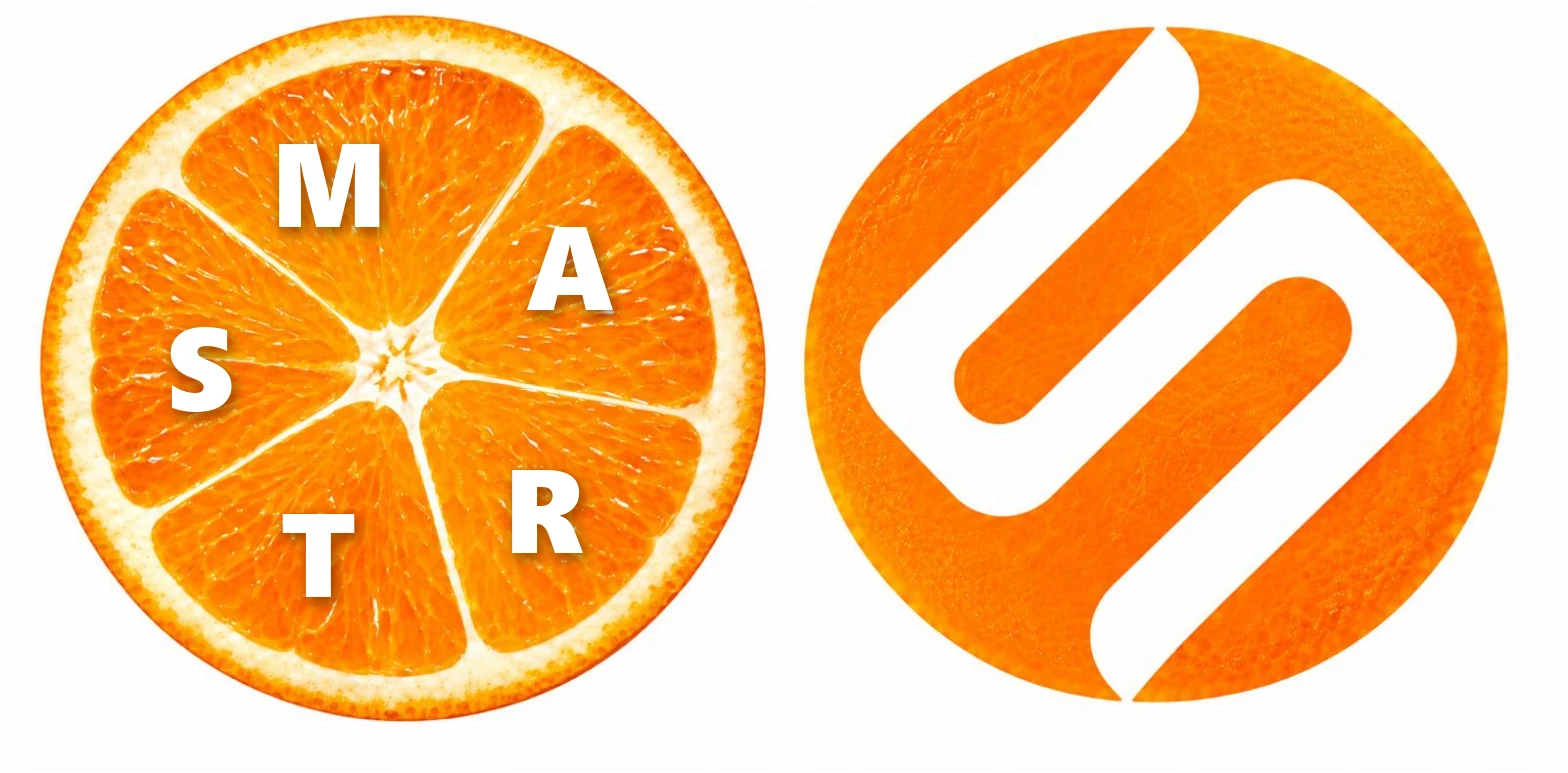
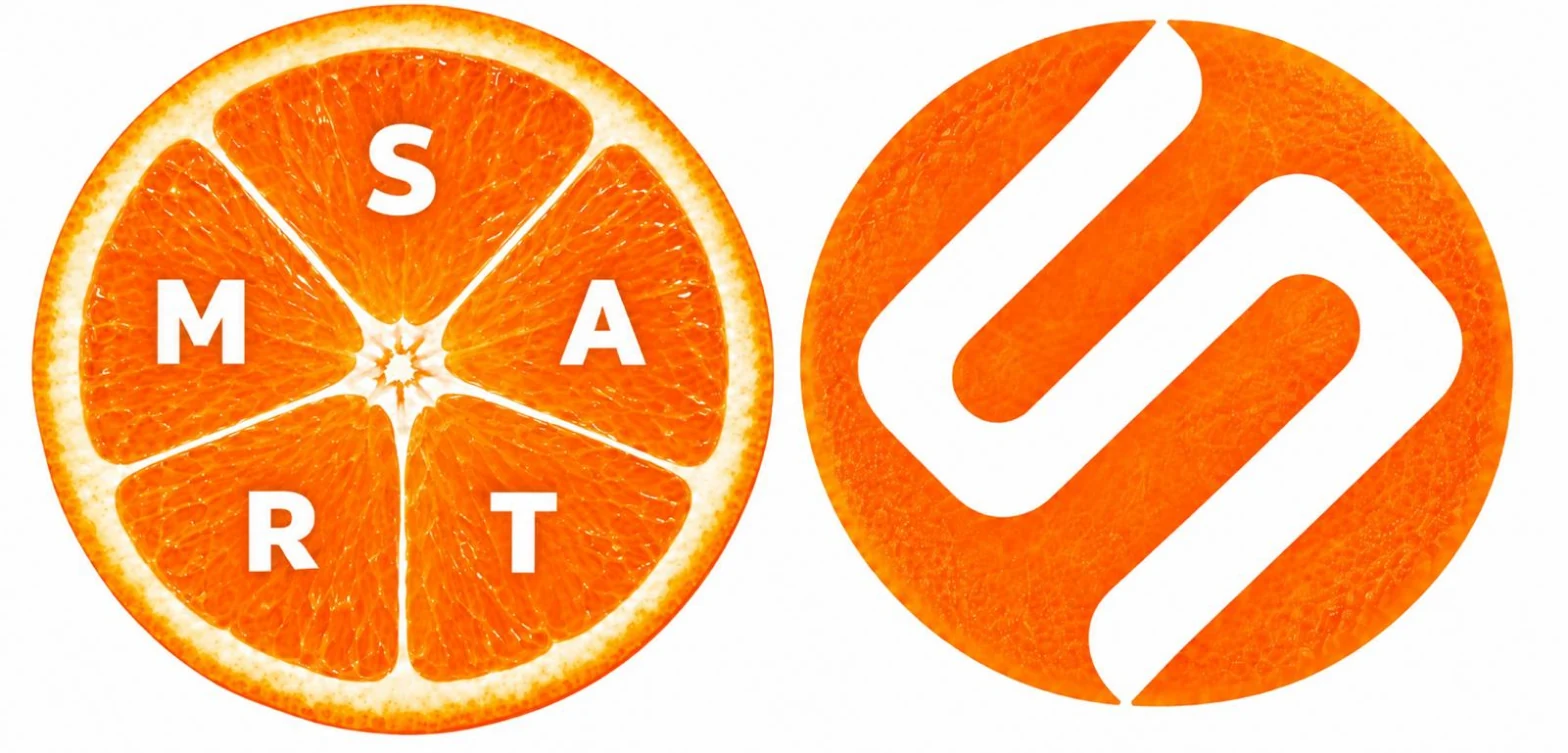
Pomarańcza SMART: wersja Artura z mniejszymi literami (16:20)

diff --git a/piec-filarow-metody-smart.html b/piec-filarow-metody-smart.html
@@ -955,7 +955,7 @@ figure{margin:0}
 <section id="top" class="ar-hero ar-puzzle"><div class="wrap"><img class="hero-puzzle" src="img/puzzle-smart-litery.webp" alt="Puzzle SMART PARKIET z literami S, M, A, R, T - pięć filarów metody Cyklinowanie SMART" width="1092" height="1092"><span class="ar-tag">Metoda</span><h1>Pięć filarów metody SMART: co kryje się za każdą literą</h1><p class="ar-meta">Blog SMARTPARKIET &middot; czyta się około 4 minut</p></div></section>
 <section class="art-body"><div class="wrap art">
 <p class="ar-lead">SMART to nie tylko nazwa. Każda litera to zasada, którą da się sprawdzić na realizacji: od tego, jak szlifujemy, po to, jak podajemy cenę.</p>
-<figure class="pf-pom"><img src="img/pomarancza-smart.webp?v=2" alt="Pomarańcza z literami SMART w pięciu cząstkach i znak S z logo SMARTPARKIET" width="1568" height="773" loading="lazy"><figcaption>Pięć cząstek, pięć zasad: System, Metoda, Asysta, Rezultat, Transparentność. Razem tworzą jedno S.</figcaption></figure>
+<figure class="pf-pom"><img src="img/pomarancza-smart.webp?v=3" alt="Pomarańcza z literami SMART w pięciu cząstkach i znak S z logo SMARTPARKIET" width="1568" height="753" loading="lazy"><figcaption>Pięć cząstek, pięć zasad: System, Metoda, Asysta, Rezultat, Transparentność. Razem tworzą jedno S.</figcaption></figure>
 <div class="ar-skrot"><b>Najważniejsze w skrócie</b><ul><li>S - system pracy: ta sama procedura w każdej z czterech ekip</li><li>M - metoda bezpyłowa z dodatkowym odpylaniem Festool</li><li>A - asysta klienta: meble, przygotowanie, kontakt</li><li>R i T - efekt premium i cena bez niespodzianek</li></ul></div>
 
 <h2>S - System pracy</h2>
